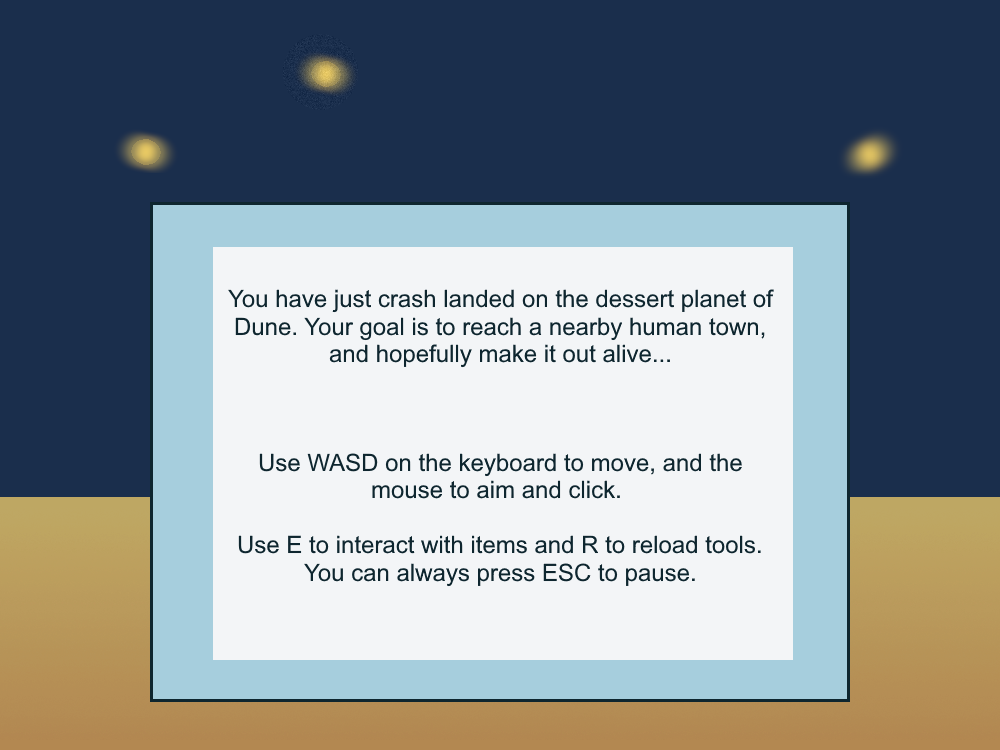
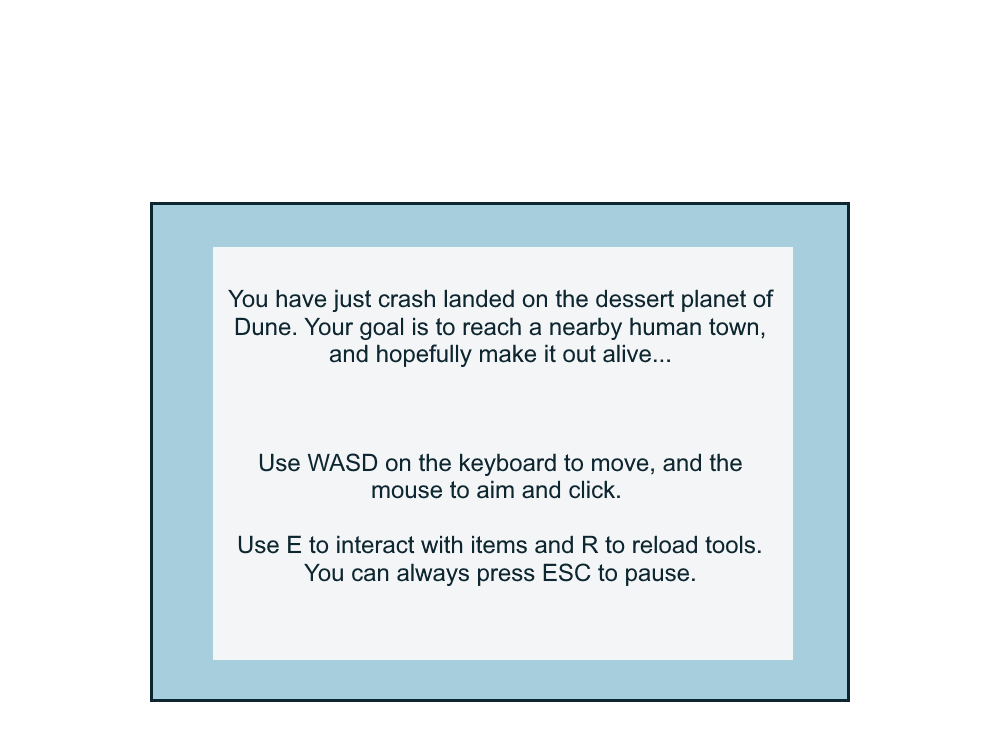
updated how to play screen

diff --git a/Const.java b/Const.java
@@ -50,9 +50,15 @@ public class Const {
     public static final Color GRAY = new Color(57, 70, 72);
     public static final Color BLACK = new Color(14, 38, 47);
 
+    // Difficulty levels.
+    public static final String EASY_DIFFICULTY = "Easy";
+    public static final String MEDIUM_DIFFICULTY = "Medium";
+    public static final String HARD_DIFFICULTY = "Hard";
+
     // Images.
     public static BufferedImage dayScreenBackground;
-    public static BufferedImage howToPlayScreenBackground;
+    public static BufferedImage nightScreenBackground;
+    public static BufferedImage howToPlayScreenText;
 
     // Audio.
 
@@ -88,10 +94,12 @@ public class Const {
 
         // Load how to play screen background.
         try {
-            howToPlayScreenBackground = ImageIO.read(new File("images/howToPlay.png"));
+            howToPlayScreenText = ImageIO.read(new File("images/howToPlay.png"));
+            nightScreenBackground = ImageIO.read(new File("images/nightScreenBackground.png"));
         } catch (IOException ex) {
             System.out.println("Error: Could not load how to play screen image.");
-            howToPlayScreenBackground = dayScreenBackground;
+            howToPlayScreenText = dayScreenBackground;
+            nightScreenBackground = dayScreenBackground;
         }
     }
 

diff --git a/MenuScreen.java b/MenuScreen.java
@@ -23,10 +23,10 @@ public class MenuScreen extends Screen {
         Button howToPlayButton = new Button.MenuButton(50, 640, "how to play button", "How To Play");
 
         // Add button press effects.
-        continueButton.addHandler(window.new ButtonScreenSwapper(Const.GAME_SCREEN_NAME));
-        newGameButton.addHandler(window.new ButtonScreenSwapper(Const.SELECT_SCREEN_NAME));
-        settingsButton.addHandler(window.new ButtonScreenSwapper(Const.SETTINGS_SCREEN_NAME));
-        howToPlayButton.addHandler(window.new ButtonScreenSwapper(Const.HOW_TO_PLAY_SCREEN_NAME));
+        continueButton.addHandler(window.new ScreenSwapperButton(Const.GAME_SCREEN_NAME));
+        newGameButton.addHandler(window.new ScreenSwapperButton(Const.SELECT_SCREEN_NAME));
+        settingsButton.addHandler(window.new ScreenSwapperButton(Const.SETTINGS_SCREEN_NAME));
+        howToPlayButton.addHandler(window.new ScreenSwapperButton(Const.HOW_TO_PLAY_SCREEN_NAME));
         
         // Add buttons to screen.
         this.addButton(continueButton);

diff --git a/HowToPlayScreen.java b/HowToPlayScreen.java
@@ -1,10 +1,14 @@
 import java.awt.Graphics;
 
 public class HowToPlayScreen extends Screen {
+    private Sprite textSprite;
+
     public HowToPlayScreen(Window window) {
-        super(Const.howToPlayScreenBackground);
+        super(Const.nightScreenBackground);
 
         this.setName(Const.HOW_TO_PLAY_SCREEN_NAME);
+
+        this.textSprite = new Sprite(0, 0, 1, Const.howToPlayScreenText);
 
         // Instantiate buttons.
         Button goBackButton = new Button.BackButton(30, 50, window);
@@ -16,6 +20,9 @@ public class HowToPlayScreen extends Screen {
     @Override
     public void paintComponent(Graphics graphics) {
         super.paintComponent(graphics);
+
+        // Draw the text.
+        this.textSprite.draw(graphics);
 
         // Draw buttons.
         this.drawButtons(graphics);

diff --git a/Button.java b/Button.java
@@ -196,7 +196,12 @@ public class Button {
             super(x, y, 150, 60, "go back button", "Go Back", Const.buttonFont, 
                     Const.DARK_BLUE, Const.BLUE);
 
-            this.addHandler(window.new ButtonScreenSwapper(window.getPrevScreenName()));
+            this.addHandler(window.new ScreenSwapperButton(window.getPrevScreenName()));
+        }
+
+        public BackButton(int x, int y) {
+            super(x, y, 150, 60, "go back button", "Go Back", Const.buttonFont,
+                    Const.DARK_BLUE, Const.BLUE);
         }
     }
 }

diff --git a/AcrossTheSandsGame.java b/AcrossTheSandsGame.java
@@ -26,10 +26,12 @@ public class AcrossTheSandsGame {
         this.menuScreen = new MenuScreen(this.window);
         this.settingsScreen = new SettingsScreen(this.window, this.game);
         this.howToPlayScreen = new HowToPlayScreen(this.window);
+        this.selectScreen = new SelectScreen(this.window);
         
         this.window.addScreen(this.menuScreen);
         this.window.addScreen(this.settingsScreen);
         this.window.addScreen(this.howToPlayScreen);
+        this.window.addScreen(this.selectScreen);
     }
 
     public void start() {

diff --git a/Window.java b/Window.java
@@ -87,10 +87,10 @@ public class Window {
         this.drawLoop.setDelay(Const.MS_PER_S / fps);
     }
     
-    public class ButtonScreenSwapper implements Button.ButtonHandler {
+    public class ScreenSwapperButton implements Button.ButtonHandler {
         private String swapScreenName;
 
-        public ButtonScreenSwapper(String swapScreenName) {
+        public ScreenSwapperButton(String swapScreenName) {
             this.swapScreenName = swapScreenName;
         }
 

diff --git a/SelectScreen.java b/SelectScreen.java
@@ -1,0 +1,5 @@
+public class SelectScreen extends Screen {
+    public SelectScreen(Window window) {
+        super(Const.dayScreenBackground);
+    }
+}
